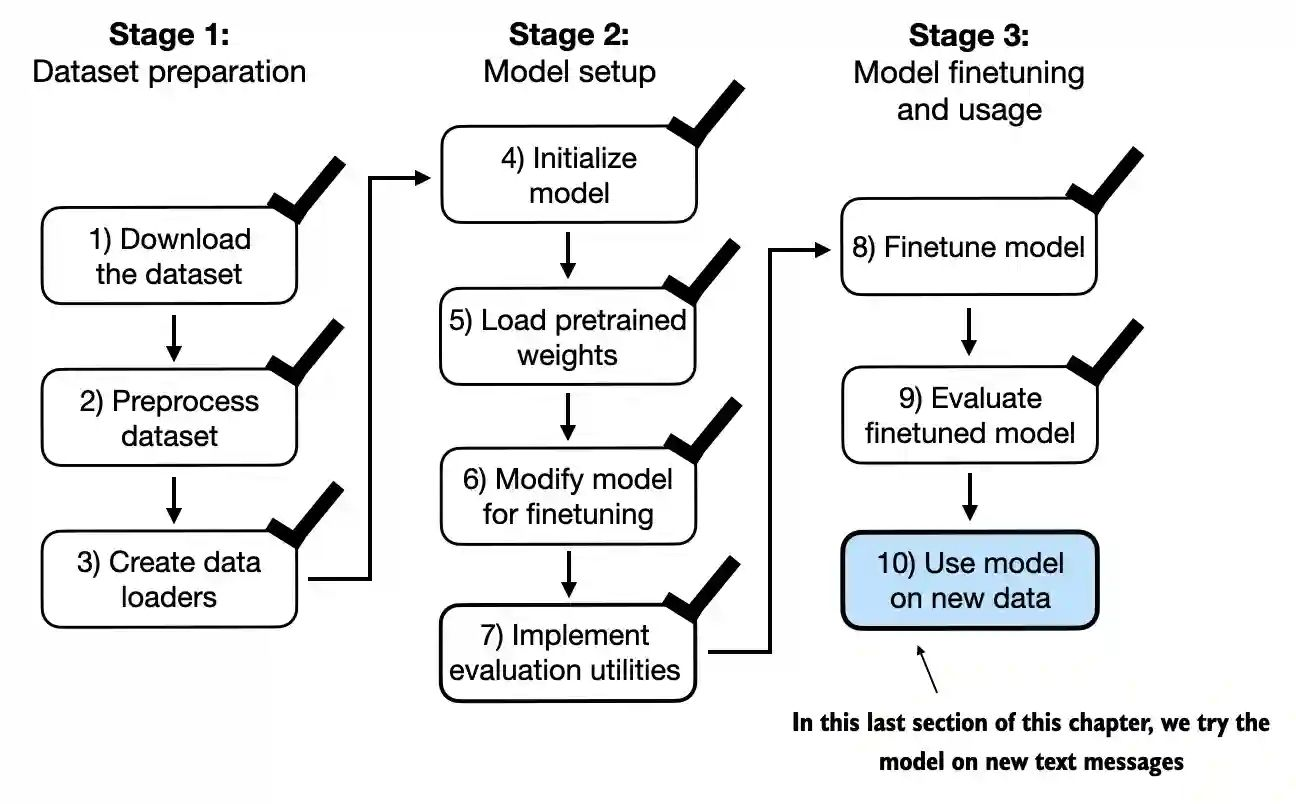
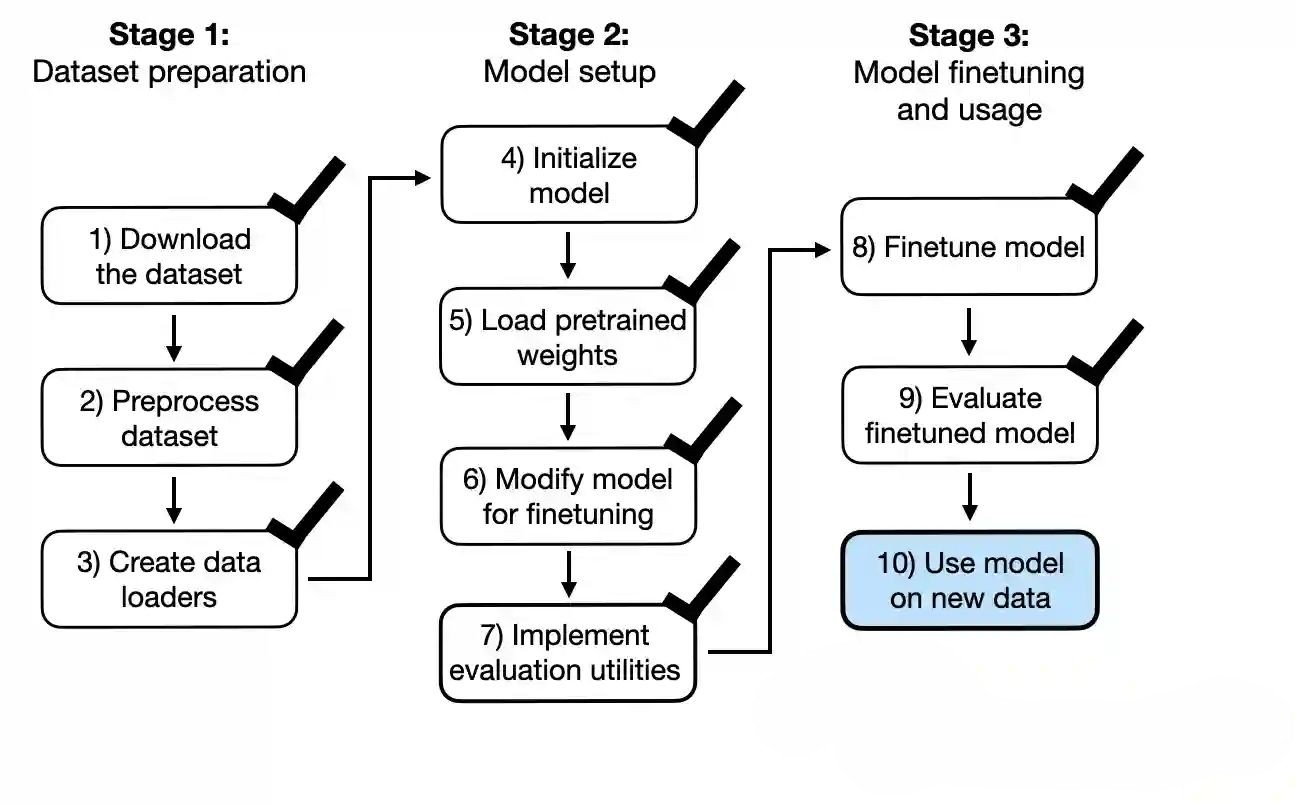
Update LLM blog: use edited images without watermarks, add Sebastian Raschka acknowledgment, GitHub repo link

Changed region(s): [[0.6173, 0.8706, 0.9877, 0.9639]]

diff --git a/_posts/2025-05-15-Building-My-First-LLM-From-Scratch.md b/_posts/2025-05-15-Building-My-First-LLM-From-Scratch.md
@@ -266,4 +266,6 @@ Next steps for scale and production:
 
 Thank you for reading! You can find the complete code and notebooks for this project on GitHub: **[llm-from-scratch](https://github.com/venkateshterikuti/llm-from-scratch)**
 
+This project was inspired by Sebastian Raschka's book "Build a Large Language Model (From Scratch)", which provided invaluable guidance during the journey.
+
 ---
